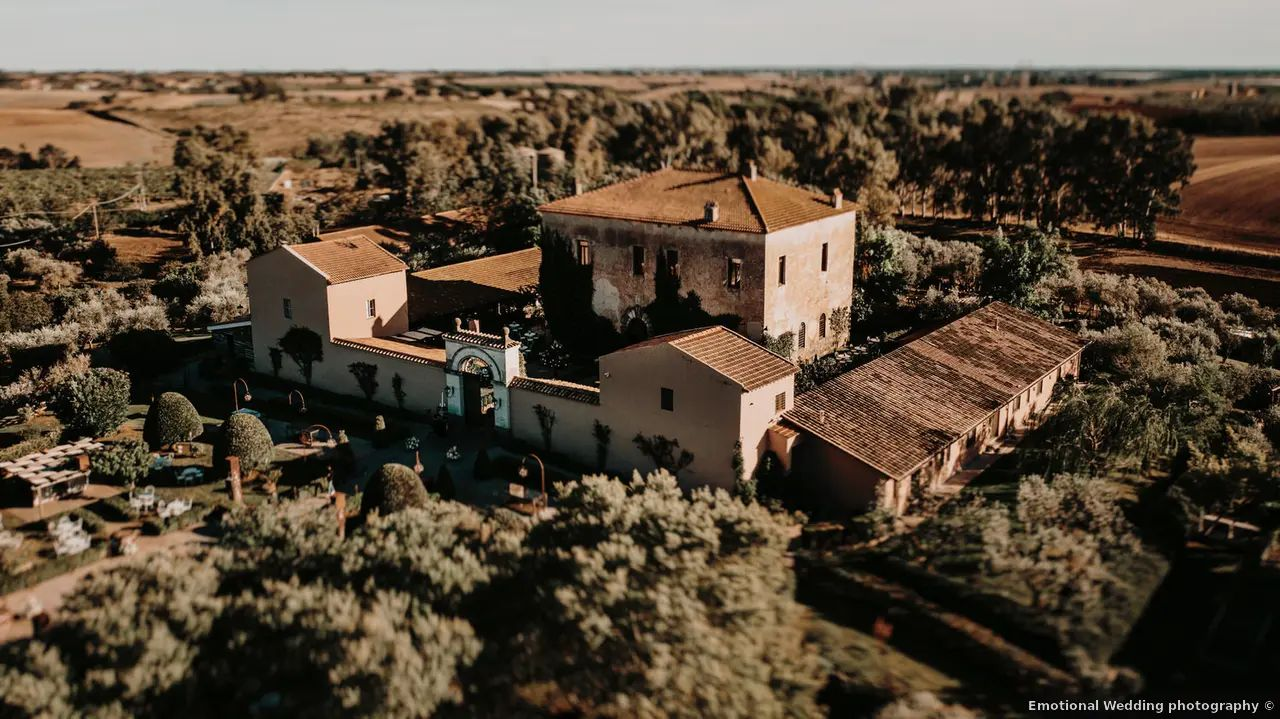
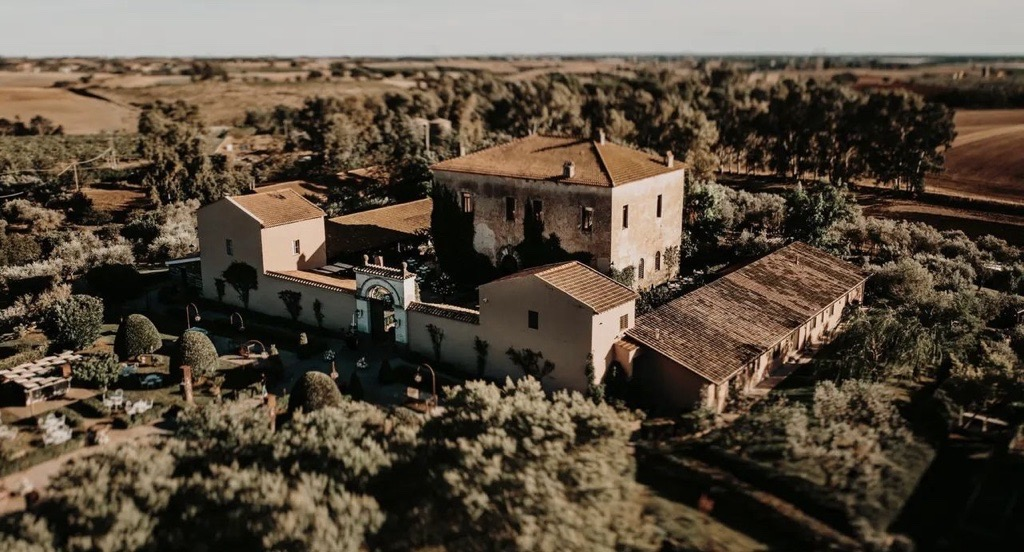
Add files via upload

diff --git a/index.html b/index.html
@@ -1,9 +1,9 @@
-<!DOCTYPE html>
+<!DOCTYPE html>
 <html lang="it-IT">
 <head>
     <title>Lorenzo & Michela | Matrimonio</title>
     <meta charset="utf-8"/>
-    <meta name="viewport" content="width=device-width, initial-scale=1, maximum-scale=1"/>
+    <meta name="viewport" content="width=device-width, initial-scale=1, maximum-scale=1, user-scalable=no"/>
     <link href="https://fonts.googleapis.com/css2?family=Playfair+Display:ital,wght@0,400;0,700;1,400;1,700&family=Montserrat:wght@300;400;500&display=swap" rel="stylesheet">
 
     <style>
@@ -17,6 +17,8 @@
             font-size: 20px; 
             line-height: 2.2;
             text-align: center;
+            width: 100%;
+            overflow-x: hidden;
         }
 
         .fade-in { opacity: 0; animation: fadeIn 1.2s ease forwards; }
@@ -75,19 +77,33 @@
         h2 { font-family: 'Playfair Display', serif; color: #9B6C6C; font-size: 2.8em; margin-bottom: 40px; font-style: italic; font-weight: 400; }
         h3 { font-family: 'Playfair Display', serif; font-size: 2em; margin-bottom: 25px; font-style: italic; font-weight: 500; }
 
-        /* SEPARATORI */
-        .rings-divider { display: flex; align-items: center; justify-content: center; margin: 40px auto; width: 60%; }
-        .rings-divider::before, .rings-divider::after { content: ""; flex: 1; height: 1px; background: #9B6C6C; opacity: 0.4; }
-        .rings-icon { width: 70px; height: 50px; margin: 0 20px; fill: none; stroke: #9B6C6C; stroke-width: 1.5; }
-
-        /* IMMAGINI */
-        .location-img {
-            max-width: 100%;
-            height: auto;
-            border-radius: 15px;
-            box-shadow: 0 4px 15px rgba(0,0,0,0.1);
-            margin: 20px auto 40px auto;
+        /* IMMAGINI FULL SCREEN */
+        .full-width-img {
+            width: 100vw;
+            position: relative;
+            left: 50%;
+            right: 50%;
+            margin-left: -50vw;
+            margin-right: -50vw;
+            margin-bottom: 40px;
             display: block;
+            height: auto;
+        }
+
+        /* IBAN BOX */
+        .iban-box {
+            background:#f1f1f1; 
+            padding:40px 20px; 
+            border-radius:10px; 
+            margin-top:30px;
+        }
+        .iban-text {
+            display: block;
+            letter-spacing: 1px; 
+            font-weight: 700; 
+            font-size: 0.82em;
+            word-break: break-all;
+            margin: 10px 0;
         }
 
         /* RSVP FORM */
@@ -120,9 +136,8 @@
             font-size: 1.1em;
             transition: 0.3s;
         }
-        .rsvp-form button:hover { background-color: #7a5252; }
 
-        .signature { font-family: 'Playfair Display', serif; font-size: 3.5em; color: #9B6C6C; margin-top: 80px; padding-bottom: 10px; font-style: italic; }
+        .signature { font-family: 'Playfair Display', serif; font-size: 3.5em; color: #9B6C6C; margin-top: 80px; padding-bottom: 10px; font-style: italic; line-height: 1.2; }
         
         .designer-credit {
             font-size: 0.6em;
@@ -135,6 +150,8 @@
         @media (max-width: 768px) {
             .hero h1 { font-size: 2.5em; }
             h2 { font-size: 2.2em; }
+            .iban-text { font-size: 0.72em; }
+            .section { padding: 60px 15px; }
         }
     </style>
 </head>
@@ -144,12 +161,12 @@
     <input type="checkbox" id="menu-toggle">
     <label for="menu-toggle" class="menu-label"><span></span></label>
 
-    <nav class="main-nav">
+    <nav class="main-nav" id="nav-links">
         <div style="padding: 40px 20px; font-family: 'Playfair Display'; color: #9B6C6C; font-size: 1.5em; border-bottom: 1px solid #EEE; font-style: italic;">L & M</div>
         <a href="#home">Home</a>
         <a href="#schedule">Schedule</a>
-        <a href="#rsvp">RSVP</a>
         <a href="#gifts">Gifts</a>
+        <a href="#rsvp">RSVP</a>
     </nav>
 
     <section id="home" class="hero">
@@ -159,16 +176,7 @@
     <section class="section fade-in">
         <p style="font-family: 'Playfair Display'; font-style: italic; font-size: 1.8em; color: #9B6C6C; margin-bottom: 0;">Ti aspettiamo il giorno</p>
         <h2 style="font-size: 3.5em; margin-bottom: 0;">1 Giugno 2026</h2>
-        
-        <div class="rings-divider">
-            <svg class="rings-icon" viewBox="0 0 100 60">
-                <path d="M42,15 L52,15 L50,20 L44,20 Z" fill="#9B6C6C" stroke="none" />
-                <circle cx="47" cy="35" r="18" />
-                <circle cx="65" cy="35" r="18" />
-            </svg>
-        </div>
-
-        <div style="font-family: 'Playfair Display'; font-style: italic; color: #9B6C6C; font-size: 2.5em; margin-bottom: 30px;">Mancano...</div>
+        <div style="font-family: 'Playfair Display'; font-style: italic; color: #9B6C6C; font-size: 2.5em; margin: 30px 0;">Mancano...</div>
         <div id="wedding-countdown" style="display: flex; justify-content: center; gap: 40px;">
             <div><span id="days" style="display: block; font-family: 'Playfair Display'; font-size: 3.5em; font-weight: 700; color: #9B6C6C;">00</span><span>Giorni</span></div>
             <div><span id="hours" style="display: block; font-family: 'Playfair Display'; font-size: 3.5em; font-weight: 700; color: #9B6C6C;">00</span><span>Ore</span></div>
@@ -177,59 +185,57 @@
     </section>
 
     <section id="schedule" class="section fade-in">
-        <img src="casale500.jpg" alt="Casale 500" class="location-img">
+        <img src="casale500.jpg" alt="Casale 500" class="full-width-img">
         <h2>Schedule</h2>
         <h3>La Cerimonia e il Ricevimento</h3>
-        <p>Siamo felici di celebrare il nostro matrimonio con una <span class="highlight">cerimonia</span>, seguita subito dopo dal ricevimento, in <span class="highlight">un'unica splendida location</span>.</p>
-        <p>Vi accoglieremo alle <span class="highlight">ore 18:30</span> per la celebrazione, seguita dalla cena e dai festeggiamenti.</p>
-        <p><span class="highlight">Location:</span> Casale 500<br>
-           <span class="highlight">Indirizzo:</span> <a href="https://maps.google.com/?q=Casale+500+Pomezia" target="_blank" style="color: inherit; border-bottom: 1px solid #9B6C6C; text-decoration:none;">Via di Valle Caia, 29, 00071 Pomezia RM</a></p>
-    </section>
-
-    <section id="rsvp" class="section fade-in">
-        <img src="casale5002.jpg" alt="Casale 500" class="location-img">
-        <h2>RSVP</h2>
-        <h3 style="margin-bottom: 40px;">Conferma la tua presenza entro il 1 Maggio 2026</h3>
-        
-        <form action="https://formspree.io/f/mnjbzeyw" method="POST" class="rsvp-form">
-            <label>Nome e Cognome *</label>
-            <input type="text" name="name" placeholder="Scrivi qui..." required>
-            
-            <label>Email *</label>
-            <input type="email" name="email" placeholder="La tua email..." required>
-            
-            <label>Conferma la tua presenza *</label>
-            <select name="attendance" required>
-                <option value="" disabled selected>Scegli un'opzione...</option>
-                <option value="Confermo">Sì, sarò presente!</option>
-                <option value="Non posso">Mi dispiace, non potrò venire</option>
-            </select>
-            
-            <label>Allergie o intolleranze (opzionale)</label>
-            <textarea name="notes" rows="4" placeholder="Segnala qui eventuali necessità alimentari..."></textarea>
-            
-            <button type="submit">Invia Conferma</button>
-        </form>
+        <p>Siamo felici di celebrare il nostro matrimonio con una cerimonia, seguita subito dopo dal ricevimento, in un'unica splendida location.</p>
+        <p>Vi accoglieremo alle ore 18:30 per la celebrazione, seguita dalla cena e dai festeggiamenti.</p>
+        <p>Location: Casale 500<br>
+           Indirizzo: <a href="http://maps.google.com/?q=Casale+500+Pomezia" target="_blank" style="color: inherit; border-bottom: 1px solid #9B6C6C; text-decoration:none;">Via di Valle Caia, 29, 00071 Pomezia RM</a></p>
     </section>
 
     <section id="gifts" class="section fade-in">
+        <img src="casale5002.jpg" alt="Casale 500 Esterno" class="full-width-img">
         <h2>Gifts</h2>
-        <p style="font-weight: 300;">La vostra presenza è ciò che rende speciale questo giorno.<br>
-           Se vorrete aiutarci a costruire un pezzetto del nostro futuro, lo accoglieremo con affetto</p>
-        <div style="background:#f1f1f1; padding:40px; border-radius:10px; margin-top:30px;">
+        <p style="font-weight: 300;">
+            La vostra presenza &egrave; ci&ograve; che rende speciale questo giorno.<br>
+            Se vorrete aiutarci a costruire un pezzetto del nostro futuro, lo accoglieremo con affetto
+        </p>
+        <div class="iban-box">
             <span style="font-style: italic; font-weight: 700;">IBAN:</span> <br> 
-            <span style="letter-spacing: 1px; font-weight: 700;">IT62H0200805046000106894914</span><br>
+            <span class="iban-text">IT62H0200805046000106894914</span>
             <span style="font-size: 0.9em; opacity: 0.8; font-style: italic;">Lorenzo Manni e Michela Morvillo</span>
         </div>
     </section>
 
+    <section id="rsvp" class="section fade-in">
+        <h2>RSVP</h2>
+        <h3 style="margin-bottom: 40px;">Conferma la tua presenza entro il <br> 1 Maggio 2026</h3>
+        <form action="https://formspree.io/f/mnjbzeyw" method="POST" class="rsvp-form">
+            <label>Nome e Cognome *</label>
+            <input type="text" name="name" required>
+            <label>Email *</label>
+            <input type="email" name="email" required>
+            <label>Conferma la tua presenza *</label>
+            <select name="attendance" required>
+                <option value="" disabled selected>Scegli un'opzione...</option>
+                <option value="Confermo">S&igrave;, sar&ograve; presente!</option>
+                <option value="Non posso">Mi dispiace, non potr&ograve; venire</option>
+            </select>
+            <label>Allergie o intolleranze (opzionale)</label>
+            <textarea name="notes" rows="4" placeholder="Segnala qui eventuali necessit&agrave; alimentari..."></textarea>
+            <button type="submit">Invia Conferma</button>
+        </form>
+    </section>
+
     <section class="fade-in">
         <h2 style="margin-top: 100px; font-size: 4em;">Grazie</h2>
-        <div class="signature">Lorenzo & Michela</div>
+        <div class="signature">Lorenzo<br>&<br>Michela</div>
         <div class="designer-credit">Designed by MA</div>
     </section>
 
     <script>
+    // Countdown
     const weddingDate = new Date("2026-06-01T18:30:00").getTime();
     function updateCountdown() {
         const now = new Date().getTime();
@@ -246,6 +252,13 @@
     }
     setInterval(updateCountdown, 1000);
     updateCountdown();
+
+    // CHIUSURA AUTOMATICA MENU
+    document.querySelectorAll('#nav-links a').forEach(link => {
+        link.addEventListener('click', () => {
+            document.getElementById('menu-toggle').checked = false;
+        });
+    });
     </script>
 </body>
 </html>